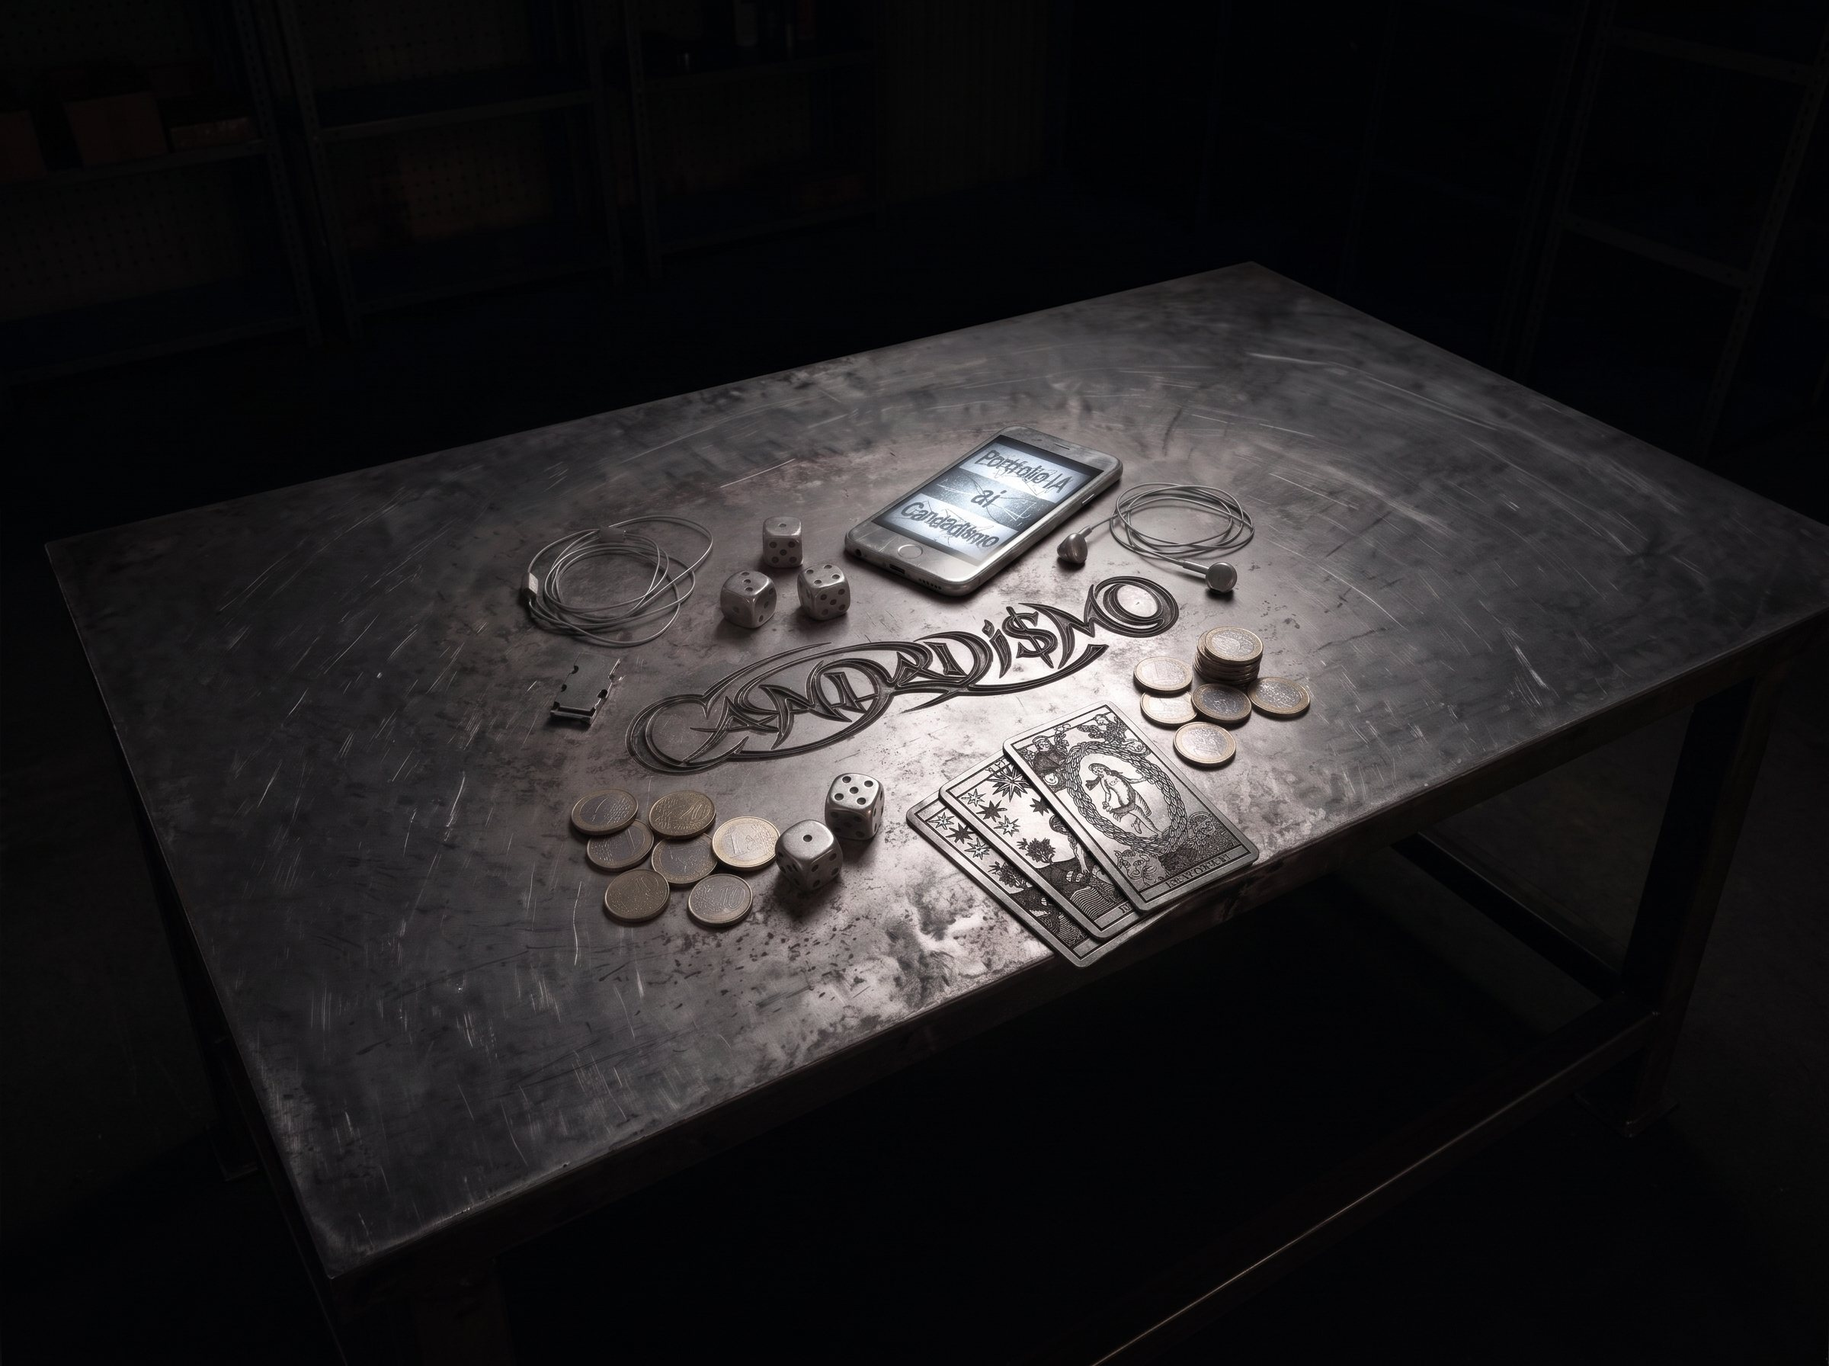
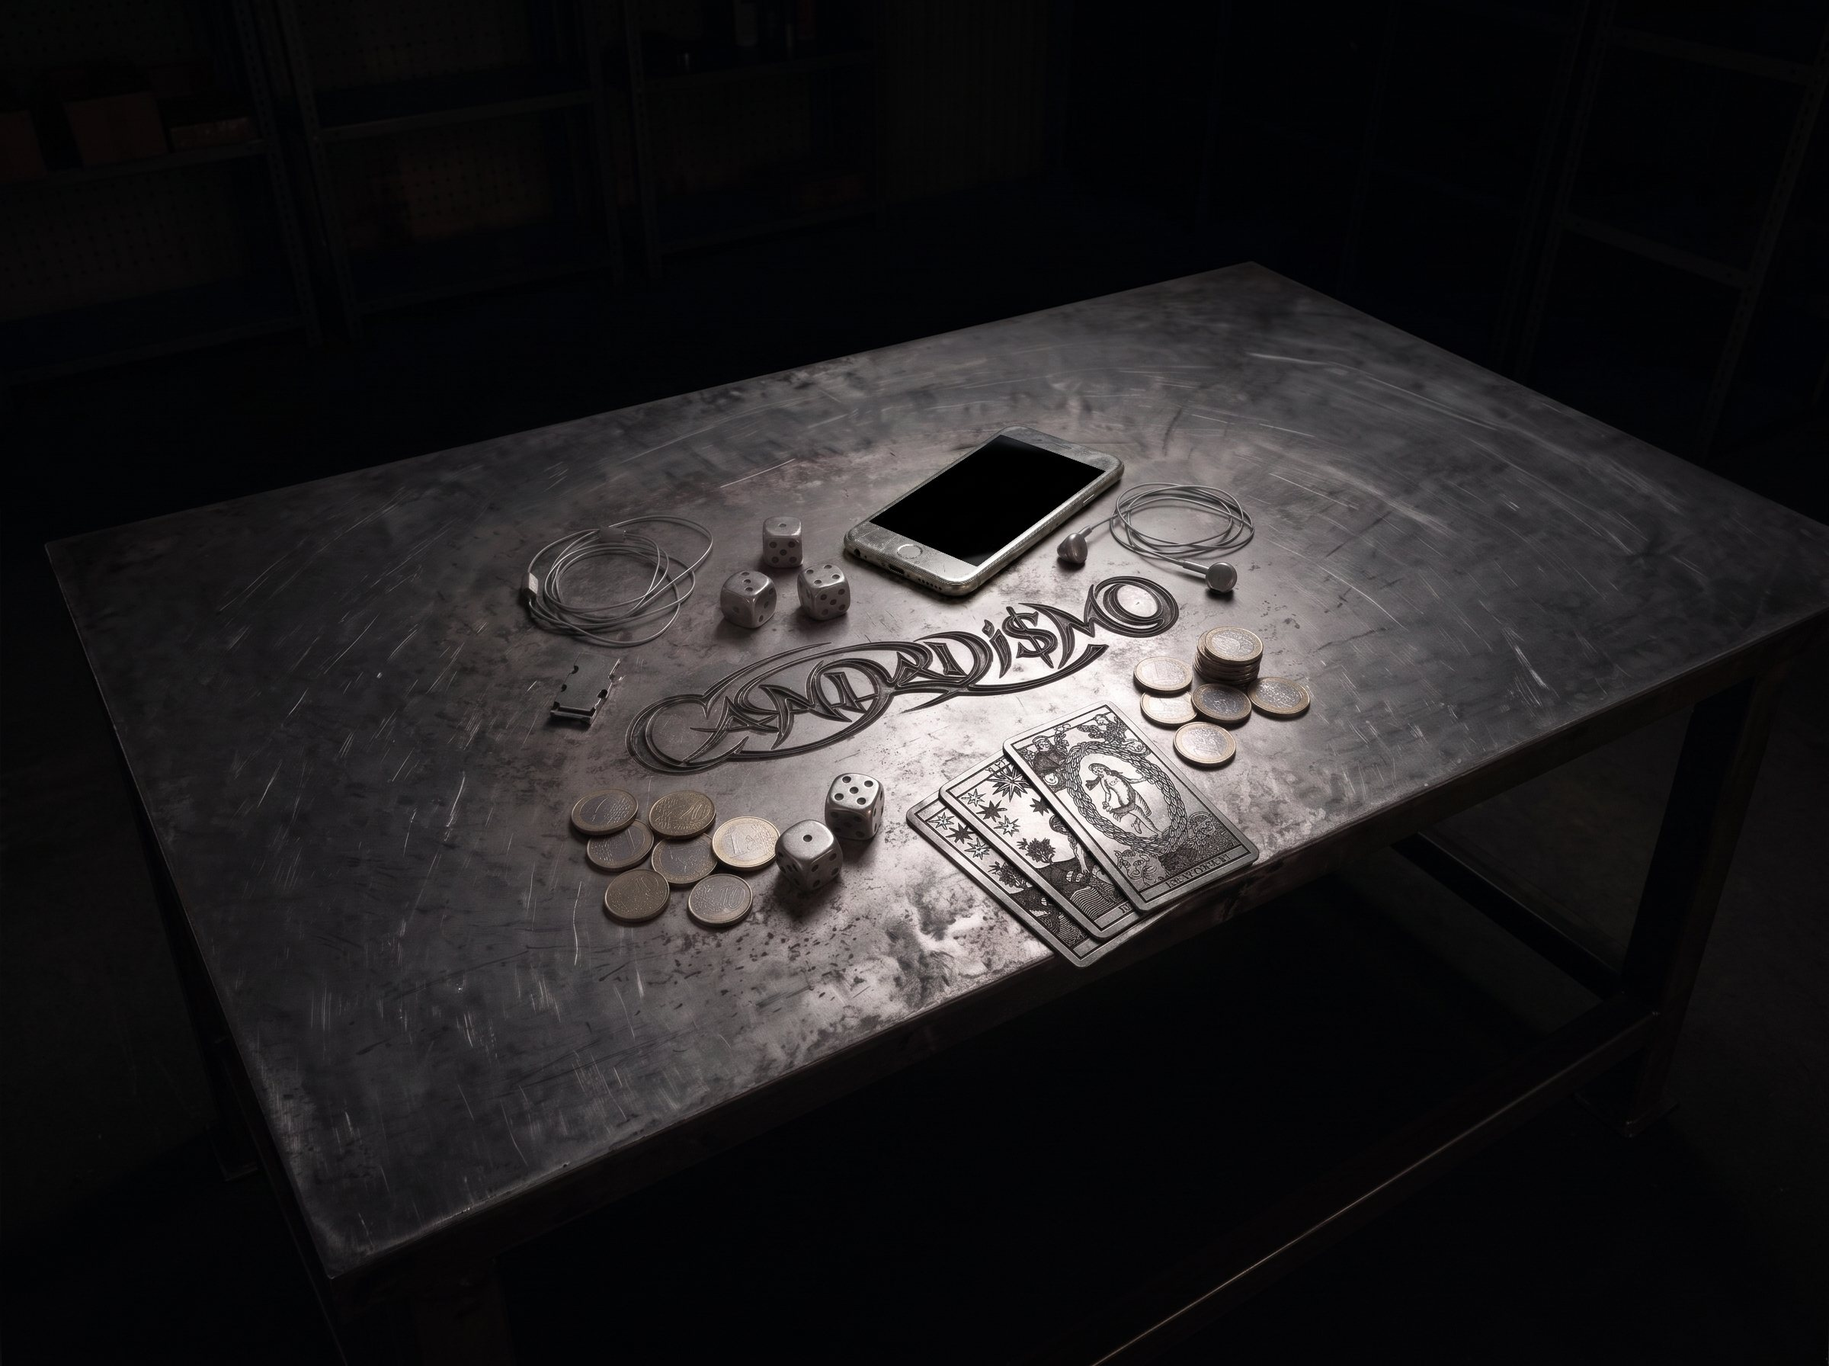
Mesa: empieza en primer plano, se aleja hasta la mesa entera; móvil se enciende al pasar el ratón
Claude-Session: https://claude.ai/code/session_01PvjRtLARtD9QrEZ5Rz5NK5

Changed region(s): [[0.4688, 0.3125, 0.625, 0.4375]]

diff --git a/main.js b/main.js
@@ -99,56 +99,59 @@
     modal.addEventListener('click', function (e) { if (e.target === modal) close(); });
   }
 
-  /* Portada: mesa que se gira, se acerca y se recorre */
+  /* Portada: mesa. Empieza en el primer plano; se puede alejar hasta ver la mesa entera, acercar, moverse e inclinar */
   var mesaCleanup = null;
   function initMesa() {
     if (mesaCleanup) { mesaCleanup(); mesaCleanup = null; }
     var root = document.getElementById('mesa');
     if (!root) return;
     var stage = document.getElementById('mesaStage'), world = document.getElementById('mesaWorld');
-    var IW = 2400, IH = 1792, FX = 0.57, FY = 0.52;          /* punto de interés (móvil, auriculares, cartas) */
-    var st = { rx: 14, rz: 0, s: 1, tx: 0, ty: 0 };
-    var base = { w: 0, h: 0 };
+    var IW = 2400, IH = 1792;
+    var CL = { x0: 754, y0: 580, x1: 1638, y1: 1191 };            /* zona del primer plano dentro de la mesa entera */
+    var FX = (CL.x0 + CL.x1) / 2, FY = (CL.y0 + CL.y1) / 2;
+    var lim = { sMin: 1, sInit: 1, sMax: 3 };
+    var st = { s: 1, cx: FX, cy: FY, rx: 0, rz: 0 };
+    function clamp(v, a, b) { return Math.max(a, Math.min(b, v)); }
     function layout() {
       var vw = stage.clientWidth, vh = stage.clientHeight;
-      var k = Math.max(vw / IW, vh / IH);
-      if (vw < 861) k = Math.max(k, (vw * 1.9) / IW);
-      base.w = IW * k; base.h = IH * k;
-      world.style.width = base.w + 'px'; world.style.height = base.h + 'px';
-      world.style.left = (vw / 2 - base.w * FX) + 'px';
-      world.style.top = (vh / 2 - base.h * FY) + 'px';
-      world.style.transformOrigin = (FX * 100) + '% ' + (FY * 100) + '%';
+      lim.sMin = Math.max(vw / IW, vh / IH);
+      var cw = CL.x1 - CL.x0, ch = CL.y1 - CL.y0;
+      lim.sInit = vw < 861 ? Math.max(vw / (cw * 0.62), vh / IH) : Math.max(Math.min(vw / cw, vh / ch) * 1.04, lim.sMin);
+      lim.sMax = lim.sInit * 2.6;
       apply();
     }
-    function clamp(v, a, b) { return Math.max(a, Math.min(b, v)); }
+    function reset() { st = { s: lim.sInit, cx: vwPortrait() ? FX + 60 : FX, cy: FY, rx: 0, rz: 0 }; apply(); }
+    function vwPortrait() { return stage.clientWidth < 861; }
     function apply() {
-      st.s = clamp(st.s, 0.8, 3.2); st.rx = clamp(st.rx, 0, 50); st.rz = clamp(st.rz, -40, 40);
-      var lim = (st.s - 0.6) * 0.45;
-      st.tx = clamp(st.tx, -base.w * lim, base.w * lim); st.ty = clamp(st.ty, -base.h * lim, base.h * lim);
-      world.style.transform = 'translate(' + st.tx + 'px,' + st.ty + 'px) rotateX(' + st.rx + 'deg) rotateZ(' + st.rz + 'deg) scale(' + st.s + ')';
+      var vw = stage.clientWidth, vh = stage.clientHeight;
+      st.s = clamp(st.s, lim.sMin, lim.sMax);
+      st.rx = clamp(st.rx, 0, 35); st.rz = clamp(st.rz, -25, 25);
+      var hw = vw / 2 / st.s, hh = vh / 2 / st.s;
+      st.cx = IW / 2 <= hw ? IW / 2 : clamp(st.cx, hw, IW - hw);
+      st.cy = IH / 2 <= hh ? IH / 2 : clamp(st.cy, hh, IH - hh);
+      world.style.transformOrigin = st.cx + 'px ' + st.cy + 'px';
+      world.style.transform = 'translate(' + (vw / 2 - st.cx) + 'px,' + (vh / 2 - st.cy) + 'px) rotateX(' + st.rx + 'deg) rotateZ(' + st.rz + 'deg) scale(' + st.s + ')';
+      if (cur) placeLabel(cur);
     }
     var pts = {}, start = null, moved = false, pinch0 = null;
     function down(e) {
       if (e.button && e.button !== 0) return;
       pts[e.pointerId] = { x: e.clientX, y: e.clientY };
       var ids = Object.keys(pts);
-      if (ids.length === 1) { start = { x: e.clientX, y: e.clientY, rx: st.rx, rz: st.rz, tx: st.tx, ty: st.ty, pan: e.shiftKey || st.s > 1.25 }; moved = false; }
+      if (ids.length === 1) { start = { x: e.clientX, y: e.clientY, cx: st.cx, cy: st.cy, rx: st.rx, rz: st.rz, tilt: e.shiftKey || e.altKey }; moved = false; }
       if (ids.length === 2) { var a = pts[ids[0]], b = pts[ids[1]]; pinch0 = { d: Math.hypot(a.x - b.x, a.y - b.y), s: st.s }; stage.classList.add('is-pinching'); }
     }
     function move(e) {
       if (!pts[e.pointerId]) { hover(e); return; }
       pts[e.pointerId] = { x: e.clientX, y: e.clientY };
       var ids = Object.keys(pts);
-      if (ids.length === 2 && pinch0) {
-        var a = pts[ids[0]], b = pts[ids[1]];
-        st.s = pinch0.s * Math.hypot(a.x - b.x, a.y - b.y) / pinch0.d; moved = true; apply(); return;
-      }
+      if (ids.length === 2 && pinch0) { var a = pts[ids[0]], b = pts[ids[1]]; st.s = pinch0.s * Math.hypot(a.x - b.x, a.y - b.y) / pinch0.d; moved = true; apply(); return; }
       if (!start) return;
       var dx = e.clientX - start.x, dy = e.clientY - start.y;
       if (!moved && Math.abs(dx) + Math.abs(dy) < 6) return;
       if (!moved) { moved = true; stage.classList.add('is-dragging'); try { stage.setPointerCapture(e.pointerId); } catch (er) {} }
-      if (start.pan) { st.tx = start.tx + dx; st.ty = start.ty + dy; }
-      else { st.rz = start.rz + dx * 0.12; st.rx = start.rx - dy * 0.12; }
+      if (start.tilt) { st.rz = start.rz + dx * 0.1; st.rx = start.rx - dy * 0.1; }
+      else { st.cx = start.cx - dx / st.s; st.cy = start.cy - dy / st.s; }
       apply();
     }
     function up(e) {
@@ -156,16 +159,27 @@
       if (Object.keys(pts).length < 2) { pinch0 = null; stage.classList.remove('is-pinching'); }
       if (!Object.keys(pts).length) { start = null; stage.classList.remove('is-dragging'); setTimeout(function () { moved = false; }, 30); }
     }
-    function wheel(e) { e.preventDefault(); st.s *= Math.exp(-e.deltaY * 0.0015); apply(); }
-    function zoomAt(e) {
-      var r = stage.getBoundingClientRect();
-      var cx = e.clientX - r.left - r.width / 2, cy = e.clientY - r.top - r.height / 2;
-      if (st.s < 1.6) { st.s = 2.2; st.tx = -cx * 1.1; st.ty = -cy * 1.1; } else { st.s = 1; st.tx = st.ty = 0; }
-      apply();
+    function zoomTo(ns, ex, ey) {
+      var r = stage.getBoundingClientRect(), old = st.s; ns = clamp(ns, lim.sMin, lim.sMax);
+      if (ex != null) { var ox = ex - r.left - r.width / 2, oy = ey - r.top - r.height / 2; st.cx += ox / old - ox / ns; st.cy += oy / old - oy / ns; }
+      st.s = ns; apply();
     }
+    function wheel(e) { e.preventDefault(); zoomTo(st.s * Math.exp(-e.deltaY * 0.0015), e.clientX, e.clientY); }
+    function dbl(e) { zoomTo(st.s < lim.sInit * 1.4 ? lim.sInit * 2 : lim.sInit, e.clientX, e.clientY); }
     function clickGuard(e) { if (moved) { e.preventDefault(); e.stopPropagation(); } }
     var cur = '';
-    function setHot(k) { if (k === cur) return; root.classList.remove('is-' + cur); cur = k; if (k) root.classList.add('is-' + k); }
+    function placeLabel(k) {
+      var poly = root.querySelector('.hs--' + k + ' polygon'), lab = root.querySelector('.mesa__label[data-for="' + k + '"]');
+      if (!poly || !lab) return;
+      var b = poly.getBoundingClientRect();
+      lab.style.left = (b.left + b.width / 2) + 'px';
+      lab.style.top = Math.max(b.top + (k === 'or' ? b.height * 0.15 : 0) - 8, 86) + 'px';
+    }
+    function setHot(k) {
+      if (k === cur) return;
+      root.classList.remove('is-' + cur); cur = k;
+      if (k) { root.classList.add('is-' + k); placeLabel(k); }
+    }
     function hover(e) {
       var el = document.elementFromPoint(e.clientX, e.clientY);
       var a = el && el.closest && el.closest('.hs');
@@ -173,8 +187,7 @@
     }
     function btn(e) {
       var z = e.currentTarget.getAttribute('data-z');
-      if (z === 'in') st.s *= 1.35; else if (z === 'out') st.s /= 1.35; else { st = { rx: 14, rz: 0, s: 1, tx: 0, ty: 0 }; }
-      apply();
+      if (z === 'in') zoomTo(st.s * 1.35); else if (z === 'out') zoomTo(st.s / 1.35); else reset();
     }
     stage.addEventListener('pointerdown', down);
     stage.addEventListener('pointermove', move);
@@ -182,21 +195,21 @@
     stage.addEventListener('pointercancel', up);
     stage.addEventListener('pointerleave', function () { if (!start) setHot(''); });
     stage.addEventListener('wheel', wheel, { passive: false });
-    stage.addEventListener('dblclick', zoomAt);
+    stage.addEventListener('dblclick', dbl);
     stage.addEventListener('click', clickGuard, true);
     Array.prototype.forEach.call(root.querySelectorAll('.hs'), function (a) {
       a.addEventListener('focus', function () { setHot(a.getAttribute('data-label')); });
       a.addEventListener('blur', function () { setHot(''); });
     });
     Array.prototype.forEach.call(root.querySelectorAll('[data-z]'), function (b) { b.addEventListener('click', btn); });
-    window.addEventListener('resize', layout);
-    /* en pantallas táctiles: el móvil se enciende solo y las etiquetas se muestran un momento */
+    function onResize() { var keep = st.s / (lim.sInit || 1); layout(); st.s = lim.sInit * keep; apply(); }
+    window.addEventListener('resize', onResize);
     var t1 = null;
     if (window.matchMedia && matchMedia('(hover: none)').matches) {
-      t1 = setTimeout(function () { root.classList.add('is-ia', 'is-dj', 'is-or'); }, 900);
+      t1 = setTimeout(function () { setHot('ia'); }, 900);
     }
-    layout();
-    mesaCleanup = function () { window.removeEventListener('resize', layout); clearTimeout(t1); };
+    layout(); world.style.transition = 'none'; reset(); world.offsetHeight; world.style.transition = '';
+    mesaCleanup = function () { window.removeEventListener('resize', onResize); clearTimeout(t1); };
   }
 
   /* Portada: objetos que se arrastran y vuelven a su sitio al soltarlos */

diff --git a/index.html b/index.html
@@ -14,7 +14,7 @@
 <link rel="preconnect" href="https://fonts.googleapis.com">
 <link rel="preconnect" href="https://fonts.gstatic.com" crossorigin>
 <link href="https://fonts.googleapis.com/css2?family=Anton&family=Red+Hat+Display:ital,wght@0,300;0,400;0,500;0,700;0,900;1,300;1,400;1,900&display=swap" rel="stylesheet">
-<link rel="stylesheet" href="styles.css?v=10">
+<link rel="stylesheet" href="styles.css?v=15">
 </head>
 <body class="landing landing--mesa">
 <div id="player" class="player"></div>
@@ -23,20 +23,23 @@
 <main class="mesa" id="mesa">
   <div class="mesa__stage" id="mesaStage">
     <div class="mesa__world" id="mesaWorld">
-      <img class="mesa__img" src="assets/img/mesa-wide.jpg" srcset="assets/img/mesa-wide-sm.jpg 1200w, assets/img/mesa-wide.jpg 2400w" sizes="(max-width: 860px) 200vw, 100vw" alt="Candadismo — mesa" draggable="false">
-      <svg class="mesa__svg" viewBox="0 0 2400 1792" preserveAspectRatio="none" aria-hidden="false">
-        <polygon class="mesa__screen-off" points="1318,573 1450,617 1303,740 1150,680"/>
-        <a href="ia.html" class="hs hs--ia" data-label="ia" aria-label="Portfolio IA"><polygon points="1335,552 1478,604 1262,788 1103,722"/></a>
-        <a href="dj.html" class="hs hs--dj" data-label="dj" aria-label="DJ — Candadismo"><polygon points="1385,705 1455,640 1560,628 1655,650 1660,785 1580,790 1395,745"/></a>
-        <a href="oraculo.html" class="hs hs--or" data-label="or" aria-label="Oráculo"><polygon points="1188,1055 1330,922 1440,920 1655,1108 1500,1212 1408,1272"/></a>
-      </svg>
-      <span class="mesa__label" data-for="ia" style="left:53.75%;top:29.02%"><span class="en">AI portfolio</span><span class="es">Portfolio IA</span></span>
-      <span class="mesa__label" data-for="dj" style="left:65.00%;top:33.76%">DJ · Candadismo</span>
-      <span class="mesa__label" data-for="or" style="left:60.00%;top:72.54%"><span class="en">Oracle</span><span class="es">Oráculo</span></span>
+      <img class="mesa__img" src="assets/img/mesa-wide.jpg?v=2" width="2400" height="1792" alt="" draggable="false">
+      <div class="mesa__close" style="transform:matrix3d(0.371276117,0.00175555648,0,1.80334634e-06,0.0707720525,0.411022545,0,5.86763356e-05,0,0,1,0,754.521439,580.291427,0,1)">
+        <img class="mesa__c mesa__c--off" src="assets/img/mesa-close-off.jpg" srcset="assets/img/mesa-close-off-sm.jpg 1100w, assets/img/mesa-close-off.jpg 2000w" sizes="100vw" width="2400" height="1792" alt="Candadismo — mesa" draggable="false">
+        <img class="mesa__c mesa__c--on" src="assets/img/mesa-close-on.jpg" srcset="assets/img/mesa-close-on-sm.jpg 1100w, assets/img/mesa-close-on.jpg 2000w" sizes="100vw" width="2400" height="1792" alt="" draggable="false">
+        <svg class="mesa__svg" viewBox="0 0 2400 1792" preserveAspectRatio="none">
+          <a href="ia.html" class="hs hs--ia" data-label="ia" aria-label="Portfolio IA"><polygon points="1572,-78 1965,60 1380,568 937,383"/></a>
+          <a href="dj.html" class="hs hs--dj" data-label="dj" aria-label="DJ — Candadismo"><polygon points="1719,335 1906,157 2193,124 2458,183 2499,559 2275,573 1750,446"/></a>
+          <a href="oraculo.html" class="hs hs--or" data-label="or" aria-label="Oráculo"><polygon points="1170,1360 1579,957 1895,951 2554,1527 2110,1861 1838,2059"/></a>
+        </svg>
+      </div>
     </div>
   </div>
+  <span class="mesa__label" data-for="ia"><span class="en">AI portfolio</span><span class="es">Portfolio IA</span></span>
+  <span class="mesa__label" data-for="dj">DJ · Candadismo</span>
+  <span class="mesa__label" data-for="or"><span class="en">Oracle</span><span class="es">Oráculo</span></span>
   <div class="mesa__ui">
-    <p class="mono mesa__hint"><span class="en">Drag to turn · scroll or pinch to zoom · tap an object</span><span class="es">Arrastra para girar · rueda o pellizca para acercar · toca un objeto</span></p>
+    <p class="mono mesa__hint"><span class="en">Drag to move · scroll or pinch to zoom · shift+drag to tilt</span><span class="es">Arrastra para moverte · rueda o pellizca para alejar/acercar · shift+arrastrar para girar</span></p>
     <div class="mesa__btns">
       <button type="button" data-z="in" aria-label="Zoom +">+</button>
       <button type="button" data-z="out" aria-label="Zoom −">−</button>
@@ -58,6 +61,6 @@
 <script src="https://w.soundcloud.com/player/api.js"></script>
 <script src="player.js"></script>
 <script src="oracle.js?v=3"></script>
-<script src="main.js?v=9"></script>
+<script src="main.js?v=13"></script>
 </body>
 </html>

diff --git a/styles.css b/styles.css
@@ -685,3 +685,24 @@ body { padding-top: var(--ph); }
 .or-deck { display: grid; grid-template-columns: repeat(11, minmax(0, 78px)); justify-content: center; gap: 10px; padding-left: 0; }
 .tc--deck { width: 100%; margin-left: 0; }
 @media (max-width: 860px) { .or-deck { grid-template-columns: repeat(6, minmax(0, 1fr)); gap: 6px; } .tc--deck { width: 100%; margin-left: 0; } }
+
+/* ===== mesa v2: close-up first, zoom out to full table ===== */
+.mesa__world { position: absolute; left: 0; top: 0; width: 2400px; height: 1792px; transition: transform .5s cubic-bezier(.2,.7,.2,1); }
+.mesa__img { width: 2400px; height: 1792px; }
+.mesa__close { position: absolute; left: 0; top: 0; width: 2400px; height: 1792px; transform-origin: 0 0;
+  -webkit-mask-image: linear-gradient(to right, transparent 0, #000 5%, #000 95%, transparent 100%), linear-gradient(to bottom, transparent 0, #000 6%, #000 94%, transparent 100%);
+  -webkit-mask-composite: source-in; mask-image: linear-gradient(to right, transparent 0, #000 5%, #000 95%, transparent 100%), linear-gradient(to bottom, transparent 0, #000 6%, #000 94%, transparent 100%); mask-composite: intersect; }
+.mesa__c { position: absolute; inset: 0; width: 100%; height: 100%; pointer-events: none; }
+.mesa__c--on { opacity: 0; }
+.mesa.is-ia .mesa__c--on { animation: screen-on2 .8s steps(1, end) forwards; }
+@keyframes screen-on2 { 0% { opacity: 0 } 10% { opacity: .8 } 18% { opacity: .1 } 28% { opacity: 1 } 36% { opacity: .4 } 46%, 100% { opacity: 1 } }
+.mesa__close .mesa__svg { position: absolute; inset: 0; width: 100%; height: 100%; }
+.hs--ia polygon { fill: rgba(255,255,255,0) !important; stroke: rgba(255,255,255,0) !important; }
+.mesa__label { position: fixed; left: 0; top: 0; z-index: 5; transform: translate(-50%, -100%); }
+.mesa.is-ia .mesa__label[data-for="ia"], .mesa.is-dj .mesa__label[data-for="dj"], .mesa.is-or .mesa__label[data-for="or"] { transform: translate(-50%, -100%); }
+.mesa__screen-off { display: none; }
+.mesa__close {
+  -webkit-mask-image: linear-gradient(to right, transparent 0, #000 6%, #000 94%, transparent 100%), linear-gradient(to bottom, transparent 0, transparent 4%, #000 20%, #000 93%, transparent 100%);
+  mask-image: linear-gradient(to right, transparent 0, #000 6%, #000 94%, transparent 100%), linear-gradient(to bottom, transparent 0, transparent 4%, #000 20%, #000 93%, transparent 100%);
+}
+.mesa__close { -webkit-mask-image: url("assets/img/mesa-close-mask.png?v=3"); mask-image: url("assets/img/mesa-close-mask.png?v=3"); -webkit-mask-size: 100% 100%; mask-size: 100% 100%; -webkit-mask-repeat: no-repeat; mask-repeat: no-repeat; -webkit-mask-composite: source-over; mask-composite: add; }

diff --git a/oraculo.html b/oraculo.html
@@ -14,7 +14,7 @@
 <link rel="preconnect" href="https://fonts.googleapis.com">
 <link rel="preconnect" href="https://fonts.gstatic.com" crossorigin>
 <link href="https://fonts.googleapis.com/css2?family=Anton&family=Red+Hat+Display:ital,wght@0,300;0,400;0,500;0,700;0,900;1,300;1,400;1,900&display=swap" rel="stylesheet">
-<link rel="stylesheet" href="styles.css?v=10">
+<link rel="stylesheet" href="styles.css?v=15">
 </head>
 <body class="page-dj page-oracle">
 <div id="player" class="player"></div>
@@ -48,6 +48,6 @@
 <script src="https://w.soundcloud.com/player/api.js"></script>
 <script src="player.js"></script>
 <script src="oracle.js?v=3"></script>
-<script src="main.js?v=9"></script>
+<script src="main.js?v=13"></script>
 </body>
 </html>

diff --git a/dj.html b/dj.html
@@ -14,7 +14,7 @@
 <link rel="preconnect" href="https://fonts.googleapis.com">
 <link rel="preconnect" href="https://fonts.gstatic.com" crossorigin>
 <link href="https://fonts.googleapis.com/css2?family=Anton&family=Red+Hat+Display:ital,wght@0,300;0,400;0,500;0,700;0,900;1,300;1,400;1,900&display=swap" rel="stylesheet">
-<link rel="stylesheet" href="styles.css?v=10">
+<link rel="stylesheet" href="styles.css?v=15">
 </head>
 <body class="page-dj">
 <div id="player" class="player"></div>
@@ -142,6 +142,6 @@
 <script src="https://w.soundcloud.com/player/api.js"></script>
 <script src="player.js"></script>
 <script src="oracle.js?v=3"></script>
-<script src="main.js?v=9"></script>
+<script src="main.js?v=13"></script>
 </body>
 </html>

diff --git a/ia.html b/ia.html
@@ -14,7 +14,7 @@
 <link rel="preconnect" href="https://fonts.googleapis.com">
 <link rel="preconnect" href="https://fonts.gstatic.com" crossorigin>
 <link href="https://fonts.googleapis.com/css2?family=Anton&family=Red+Hat+Display:ital,wght@0,300;0,400;0,500;0,700;0,900;1,300;1,400;1,900&display=swap" rel="stylesheet">
-<link rel="stylesheet" href="styles.css?v=10">
+<link rel="stylesheet" href="styles.css?v=15">
 </head>
 <body class="page-ia">
 <div id="player" class="player"></div>
@@ -407,6 +407,6 @@
 <script src="https://w.soundcloud.com/player/api.js"></script>
 <script src="player.js"></script>
 <script src="oracle.js?v=3"></script>
-<script src="main.js?v=9"></script>
+<script src="main.js?v=13"></script>
 </body>
 </html>
